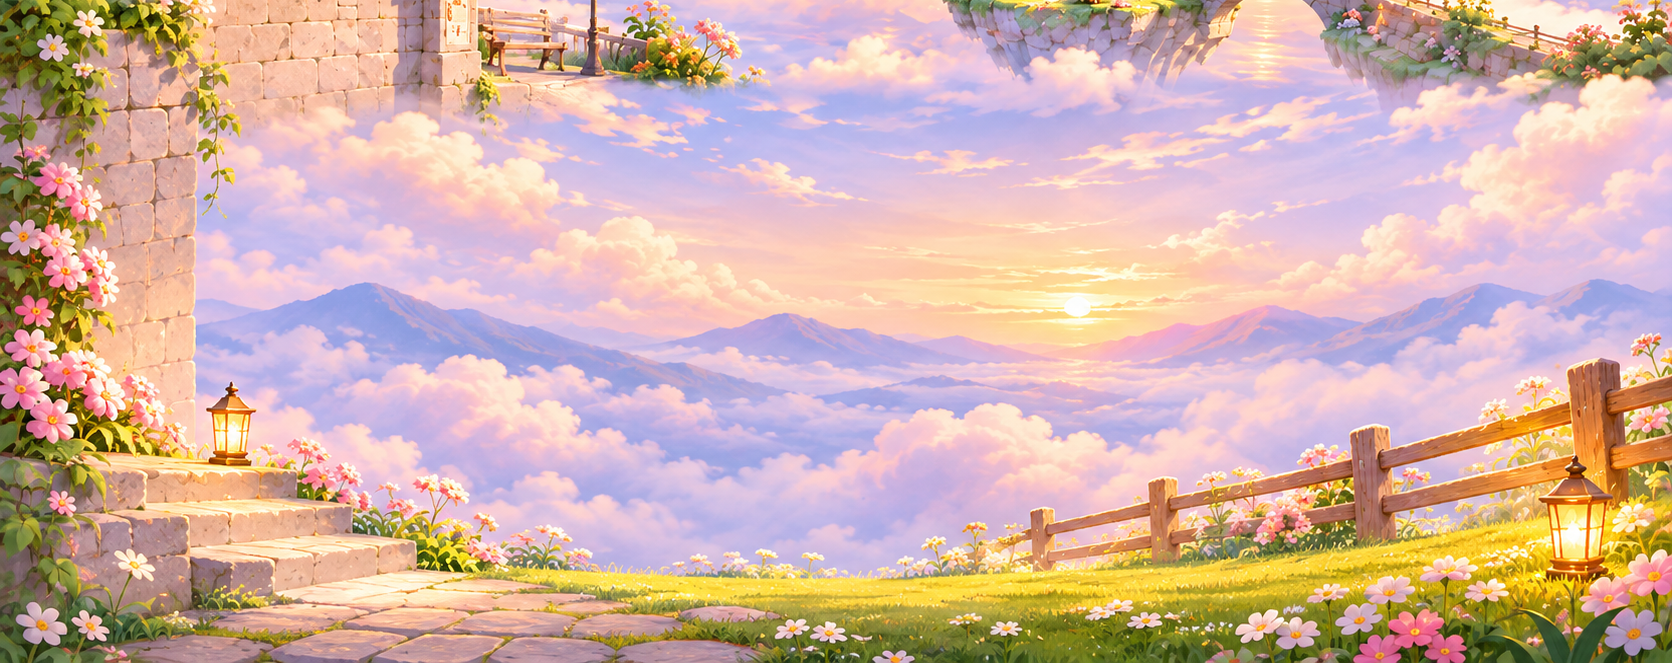
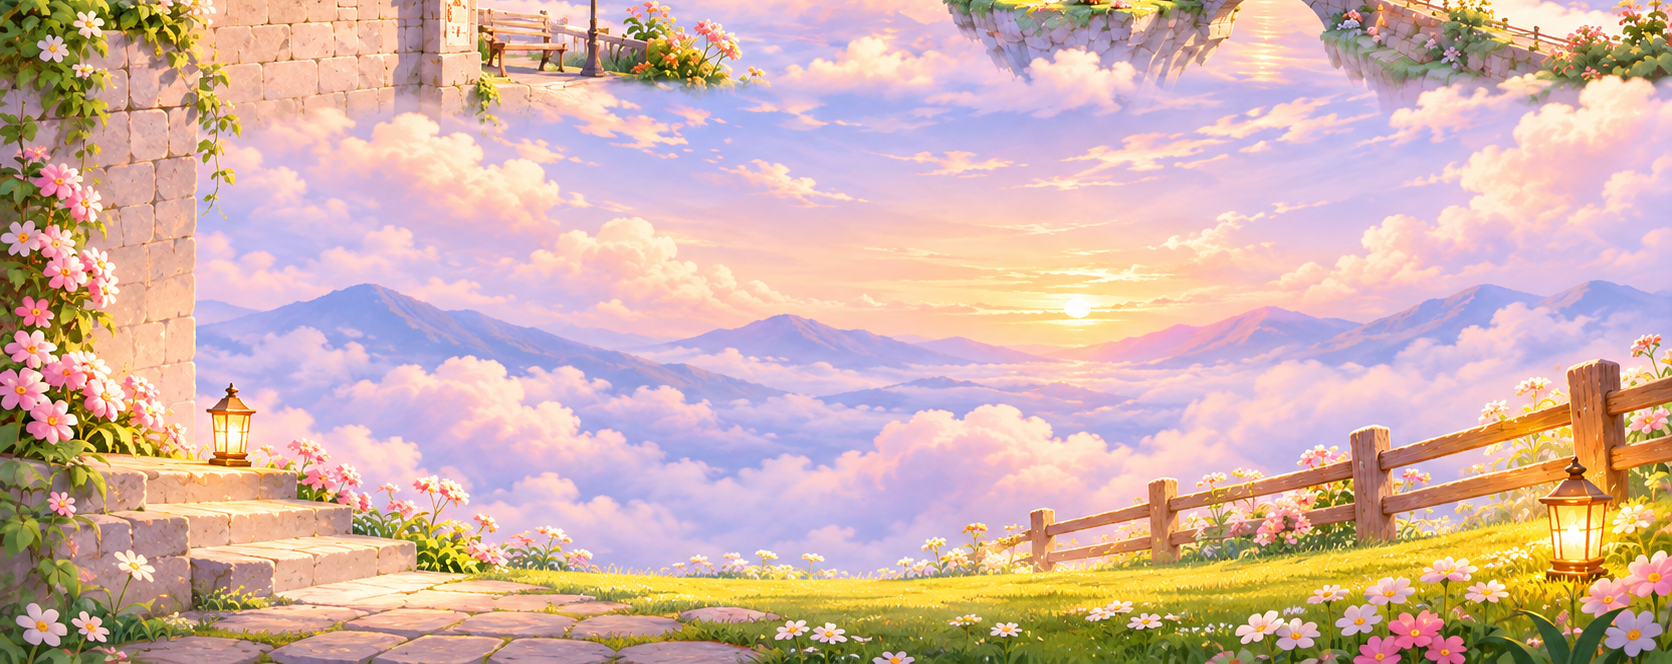
style(时间线): 小岛时间线去掉面板底与标题，改细线配色
按用户实机调整:

- 竖排时间线去掉面板底色、描边、阴影和「记忆时间线 / 条数」标题头,
  改成直接压在画面上的一条细轴;
- 竖线 1px 米色渐变 → 3px 实色 #EBCF9B;
- 文字改深蓝 #454764、日期 #85839A,圆点变米白 #FFF9F2,悬停升到 #F6BA5B;
- .mtl-txt 自己带 16px 圆角米白底(0.82),悬停变暖橙 rgba(246,189,88,0.3),
  改为「整行高亮」而不是只换个字色。

另:authModal / authorCard / square / memory 只是注释与空行位置整理。

diff --git a/源码/src/components/memTimeline.vue b/源码/src/components/memTimeline.vue
@@ -62,10 +62,10 @@
 
   <!-- ============ 竖排（小岛总览页） ============ -->
   <div v-else class="mtl" :class="'mtl-' + kind">
-    <p class="mtl-head">
+    <!-- <p class="mtl-head">
       <span class="mtl-title">{{ label }}</span>
       <span class="mtl-count">{{ nodes.length }}</span>
-    </p>
+    </p> -->
 
     <div ref="scrollEl" class="mtl-scroll">
       <span class="mtl-line" aria-hidden="true"></span>
@@ -177,14 +177,15 @@ watch(
      ★ 横排也用得上：宽度 100% + 左右 padding，不写就会横向溢出 20px。 */
   box-sizing: border-box;
   width: 200px;
-  padding: 11px 8px 10px 16px;
-  border-radius: 16px;
+  /* padding: 11px 8px 10px 16px; */
+  /* border-radius: 16px; */
   /* 刻意做得很淡：这条常压在画面内容上（岛屿页压着最右那座岛的画面），
      底色一重就变成"贴了张不透明卡片"。
      不用 backdrop-filter —— 房间页那层下面是 canvas，模糊整块画布很贵。 */
-  background: linear-gradient(180deg, rgba(255, 252, 246, 0.34), rgba(255, 246, 235, 0.14));
-  border: 1px solid rgba(255, 255, 255, 0.42);
-  box-shadow: 0 8px 24px rgba(120, 90, 60, 0.1);
+  /* background: rgba(247, 213, 203,0.6); */
+  /* background: linear-gradient(180deg, rgba(255, 252, 246, 0.34), rgba(255, 246, 235, 0.14)); */
+  /* border: 1px solid rgba(255, 255, 255, 0.42); */
+  /* box-shadow: 0 8px 24px rgba(120, 90, 60, 0.1); */
   color: var(--mtl-ink);
   /* 容器不吃事件：房间页这条压在 3D 画布上，挡了就没法拖视角 */
   pointer-events: none;
@@ -244,14 +245,15 @@ watch(
   right: 9px;
   top: 8px;
   bottom: 8px;
-  width: 1px;
-  background: linear-gradient(
+  width: 3px;
+  /* background: linear-gradient(
     180deg,
     rgba(150, 120, 95, 0) 0%,
     rgba(150, 120, 95, 0.4) 10%,
     rgba(150, 120, 95, 0.4) 90%,
     rgba(150, 120, 95, 0) 100%
-  );
+  ); */
+  background-color: #EBCF9B;
   pointer-events: none;
 }
 
@@ -292,6 +294,10 @@ watch(
 }
 
 .mtl-txt {
+  padding: 6px 10px 6px 12px;
+  box-shadow: 0 3px  rgba(91, 80, 116, 0.06);
+  background:rgba(255,249,242,0.82);
+  border-radius: 16px;
   display: flex;
   flex-direction: column;
   align-items: flex-end;
@@ -305,21 +311,23 @@ watch(
   white-space: nowrap;
   font-size: 13px;
   font-weight: 500;
-  color: var(--mtl-ink-dim);
+  /* color: var(--mtl-ink-dim); */
+  color:#454764;
   text-shadow: 0 1px 0 rgba(255, 255, 255, 0.6);
   transition: color 0.2s ease, font-size 0.2s ease;
 }
 .mtl-date {
   font-size: 10.5px;
   font-style: normal;
-  color: rgba(91, 68, 51, 0.46);
+  /* color: rgba(91, 68, 51, 0.46); */
+  color:#85839A;
   font-variant-numeric: tabular-nums;
-  text-shadow: 0 1px 0 rgba(255, 255, 255, 0.55);
+  /* text-shadow: 0 1px 0 rgba(255, 255, 255, 0.55); */
 }
 
 .mtl-dotbox {
   position: relative;
-  flex: 0 0 18px;
+  flex: 0 0 20px;
   width: 18px;
   height: 18px;
   display: grid;
@@ -329,19 +337,24 @@ watch(
   width: 8px;
   height: 8px;
   border-radius: 50%;
-  background: var(--mtl-dot-off);
+  /* background: var(--mtl-dot-off); */
+  background-color:#FFF9F2;
   box-shadow: 0 0 0 3px rgba(255, 255, 255, 0.32);
   transition: transform 0.25s cubic-bezier(0.22, 0.61, 0.36, 1), background 0.25s ease,
     box-shadow 0.25s ease, width 0.25s ease, height 0.25s ease;
 }
+.mtl-txt:hover {
+  background:rgba(246,189,88,0.3);
+}
 .mtl-btn:hover .mtl-dot {
-  background: #b8865a;
+   background-color: #F6BA5B;
   transform: scale(1.3);
 }
 
 /* ---- 当前项：白点 + 光环 + 加粗 ---- */
 .mtl-node.on .mtl-name {
-  color: #43301f;
+  /* color: #43301f; */
+  
   font-weight: 700;
   font-size: 13.5px;
 }
@@ -390,21 +403,22 @@ watch(
 /* ---- 岛屿页：底色浅一些、文字加白色描边光 ----
    这条会压在画面最右那座岛上，底色压太重就成"贴了张卡片"，
    压太轻文字就飘在树影里看不清。取中间值：底色留一点纱，给文字补一圈白晕。 */
-.mtl-isle {
-  background: linear-gradient(180deg, rgba(255, 252, 246, 0.46), rgba(255, 246, 235, 0.26));
-}
+ /* .mtl-isle { 
+   background: linear-gradient(180deg, rgba(255, 252, 246, 0.46), rgba(255, 246, 235, 0.26)); 
+   border:1px solid rgba(0,0,0); 
+}  */
 .mtl-isle .mtl-name {
-  color: rgba(74, 52, 38, 0.84);
+  color: #454764;
   text-shadow: 0 0 9px rgba(255, 255, 255, 0.95), 0 1px 0 rgba(255, 255, 255, 0.85);
 }
 .mtl-isle .mtl-date {
-  color: rgba(74, 52, 38, 0.62);
-  text-shadow: 0 0 7px rgba(255, 255, 255, 0.95);
+  color:#85839A;
+  /* text-shadow: 3px 3px 3px rgba(0, 0, 0, 0.95); */
 }
 
 /* ---- 房间页：压在 3D 画面上，底色要比岛屿页沉，但别沉成一块黑板 ---- */
 .mtl-room {
-  background: linear-gradient(180deg, rgba(46, 36, 30, 0.46), rgba(46, 36, 30, 0.22));
+  /* background-color: rgba(247,213,203); */
   border-color: rgba(255, 226, 190, 0.22);
   box-shadow: 0 12px 34px rgba(0, 0, 0, 0.26);
 }
@@ -428,7 +442,7 @@ watch(
   text-shadow: 0 1px 3px rgba(0, 0, 0, 0.5);
 }
 .mtl-room .mtl-date {
-  color: rgba(255, 238, 220, 0.5);
+  color: rgba(255, 242, 228, 0.84);
   text-shadow: 0 1px 3px rgba(0, 0, 0, 0.4);
 }
 .mtl-room .mtl-node.on .mtl-name {
@@ -460,7 +474,7 @@ watch(
   padding: 9px 12px 8px;
   border-radius: 16px;
   /* 底下那层已经是 .room-gallery 的深色渐隐，这里再压太实就成一块黑板了 */
-  background: linear-gradient(180deg, rgba(46, 36, 30, 0.42), rgba(46, 36, 30, 0.2));
+  /* background: linear-gradient(180deg, rgba(46, 36, 30, 0.42), rgba(46, 36, 30, 0.2)); */
   border: 1px solid rgba(255, 226, 190, 0.2);
   box-shadow: 0 10px 26px rgba(0, 0, 0, 0.2);
 }

diff --git a/源码/src/components/square.vue b/源码/src/components/square.vue
@@ -329,11 +329,11 @@
 
     <p v-if="tipText" class="sq-tip">{{ tipText }}</p>
 
+
     <!-- 菜单外点击关闭改由 document 的 pointerdown 处理。
          ★ 原来这里是一层 fixed 遮罩(z-index 20): 卡片因为 content-visibility 形成独立
          层叠上下文, 菜单的 z-index 30 只在该层叠上下文里有效, 结果遮罩盖在菜单上,
          点「修改/删除」只会把菜单关掉 —— 这就是「点了不管」的原因。 -->
-
     <!-- 作者个人信息子组件 -->
     <author-card
       v-if="authorOf"
@@ -400,8 +400,8 @@
       @add-comment="addComment"
     />
 
-    <!-- 共享记忆的详情已并入上面这个统一详情: 它现在就是一条普通广场动态 -->
 
+    <!-- 共享记忆的详情已并入上面这个统一详情: 它现在就是一条普通广场动态 -->
     <!-- 帖子详情弹窗（长文查看） -->
     <div v-if="postDetailModal" class="sq-mask" @click.self="postDetailModal = null">
       <div class="sq-dialog post-detail-modal" :style="pdDragStyle">
@@ -435,9 +435,8 @@
         </div>
       </div>
     </div>
-
+    
     <!-- 广场不再有「添加数据」入口: 写/改只在记忆库, 分享后自动进广场 -->
-
     <!-- 活动详情弹窗 -->
     <div v-if="actDetail" class="act-detail-overlay" @click.self="actDetail = null">
       <div class="act-detail-modal">

diff --git a/源码/src/components/memory.vue b/源码/src/components/memory.vue
@@ -3280,8 +3280,7 @@ async function doRemove() {
 
 /* ---- 自定义岛屿下拉（2026-10-27 / 13:20 再调）----
    ★ 触发器不再用蓝紫底：改成和「新建岛屿」输入框**完全一致**的白底 + 米色边框，
-     同一个字段的两种模式（新建 / 已有）才是同一套控件，切过去不会像换了皮肤。
-   展开列表用用户指定的浅天蓝 rgb(167, 222, 250) = #a7defa。 */
+     同一个字段的两种模式（新建 / 已有）才是同一套控件，切过去不会像换了皮肤。*/
 .st-dd {
   position: relative;
 }
@@ -3339,7 +3338,7 @@ async function doRemove() {
   list-style: none;
   border: 1px solid rgba(125, 199, 248, 0.55);;
   border-radius: 12px;
-  /* 用户指定：浅天蓝 rgb(167, 222, 250) */
+
   background: #bfe8fc;
   box-shadow: 0 12px 28px rgba(60, 120, 160, 0.2);
   max-height: 232px;

diff --git a/源码/src/components/authorCard.vue b/源码/src/components/authorCard.vue
@@ -34,6 +34,7 @@
           ><b>{{ author.followers || 0 }}</b
           >粉丝</span
         >
+
       </div>
       <div class="ac-tags">
         <span v-for="t in author.tags" :key="t" class="ac-tag"># {{ t }}</span>

diff --git a/源码/src/components/authModal.vue b/源码/src/components/authModal.vue
@@ -85,6 +85,7 @@
       </form>
 
       <p v-if="tab === 'login'" class="am-tip">演示账号: linjian / demo123456</p>
+
     </div>
 
     <ForgotPassword v-if="showForgot" @close="showForgot = false" />
